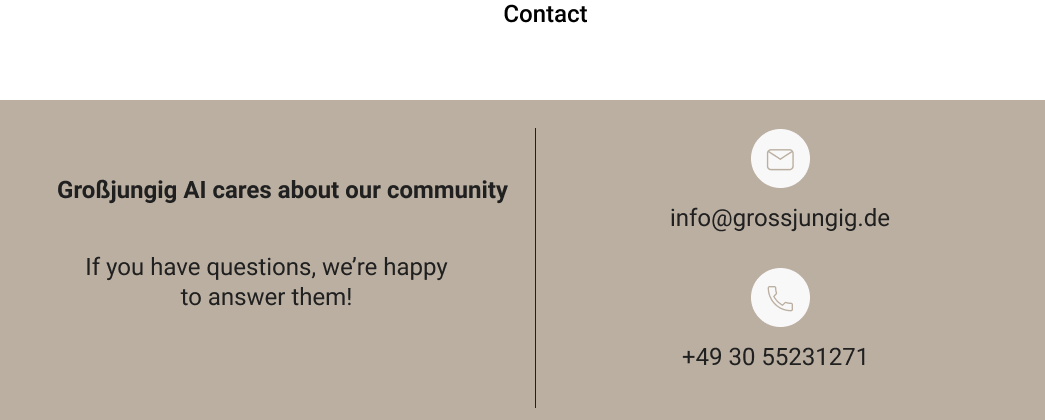
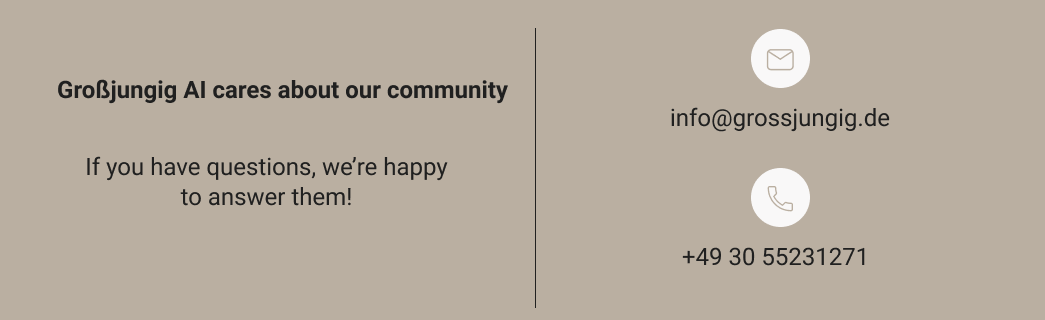
contact panel designed

diff --git a/frontend/src/components/home/Home.js b/frontend/src/components/home/Home.js
@@ -151,10 +151,11 @@ class Home extends Component {
           <Card3 text={card3[0].text} source={card3[0].source} />
         </SecPanel>
         <CommunityPanel id="community">
-          <p style={{ color: "black" }}>Community</p>
+          <p>Community</p>
           <img src="/image/community-group.png" alt="community" />
         </CommunityPanel>
         <ContactPanel>
+          <p>Contact</p>
           <img src="/image/contact.png" alt="contact" />
         </ContactPanel>
       </>
@@ -187,7 +188,7 @@ const SecPanel = styled.div`
   background-size: cover;
   height: 800px;
   margin-top: 3rem;
-  margin-bottom: 10rem;
+  margin-bottom: 8rem;
 `;
 
 const Row = styled.div`
@@ -240,22 +241,23 @@ const HowSecRow = styled.div`
 `;
 
 const CommunityPanel = styled.div`
+  margin-top: 0.5rem;
+  margin-bottom: 2rem;
+  padding-top: 7rem;
+  text-align: center;
+  font-weight: bold;
+  font-size: 25px;
+  line-height: 26px;
+  color: black;
+`;
+
+const ContactPanel = styled.div`
   margin-top: 3rem;
   margin-bottom: 2rem;
   padding-top: 7rem;
   text-align: center;
   font-weight: bold;
   font-size: 25px;
-  line-height: 28px;
-  color: rgb(116, 109, 109);
-`;
-
-const ContactPanel = styled.div`
-  margin-top: 3rem;
-  margin-bottom: 2rem;
-  /* text-align: center;
-  font-weight: bold;
-  font-size: 25px;
-  line-height: 28px;
-  color: rgb(116, 109, 109); */
+  line-height: 26px;
+  color: black;
 `;
